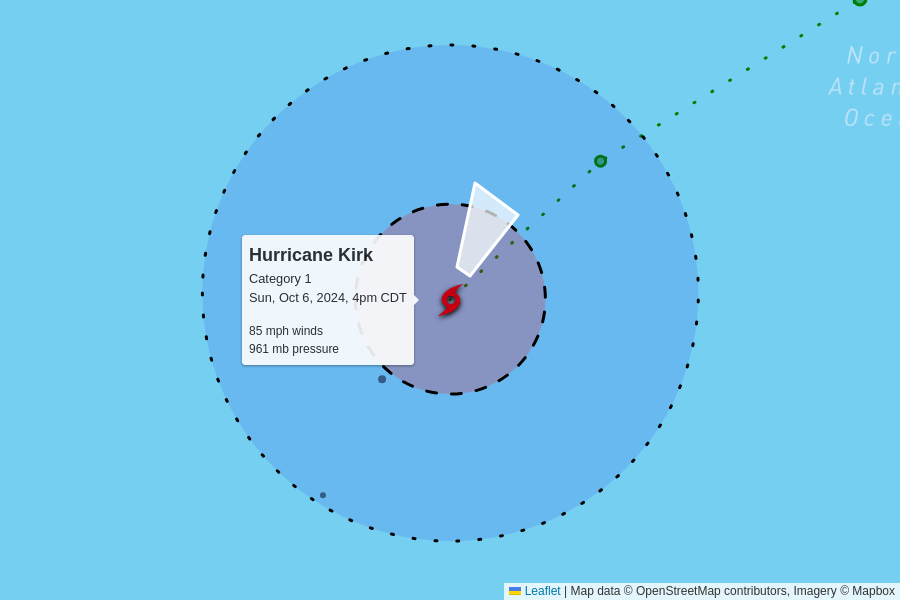
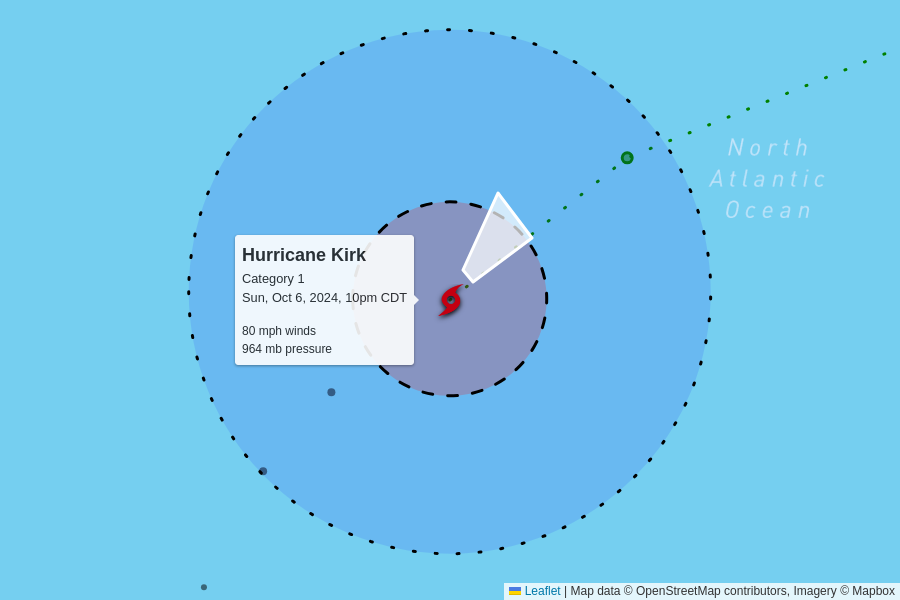
automatic update

diff --git a/docs/index.html b/docs/index.html
@@ -103,6 +103,50 @@
       <tr>
         <td colspan="6" class="storm category-1" >
           <h2>
+            Hurricane Kirk - Category 1
+            <p class="updated">last updated <span data-time>2024-10-07T03:00:00.000Z</span></p>
+          </h2>
+        </td>
+      </tr>
+      
+      <tr>
+        <th class="spacer"></th>
+        <th>wind speed</th>
+        <th>central pressure</th>
+        <th>movement</th>
+        <th>data (CSV)</th>
+        <th>National Hurricane Center</th>
+      </tr>
+      <tr>
+        <td class="spacer"></td>
+        <td>80 mph<br>-5 mph since last update</td>
+        <td>964 mb<br>+3 mb since last update</td>
+        <td>
+          25 mph to the northeast
+          <br/>
+          <span style="display: inline-block; font-size: 1.5em; transform: rotate(45deg);">↑</span>
+        </td>
+        <td><a href="https://raw.githubusercontent.com/mgwalker/atlantic-hurricanes/main/data/csv/AL122024.csv">AL122024.csv</a></td>
+        <td><a href="https://www.nhc.noaa.gov/archive/2024/KIRK.shtml?">NHC advisories</a></td>
+      </tr>
+      <tr id="storm_AL122024" >
+        <td class="spacer">
+        <td colspan="5">
+          <figure>
+            <img src="AL122024.png">
+            <figcaption>
+              Map data &copy; <a href="https://www.openstreetmap.org/copyright">OpenStreetMap</a> contributors,
+              Imagery &copy; <a href="https://www.mapbox.com/">Mapbox</a> |
+              <a href="https://www.mapbox.com/map-feedback/" target="_blank">Improve this map</a>
+            </figcaption>
+          </figure>
+        </td>
+      </tr>
+      
+
+      <tr>
+        <td colspan="6" class="storm category-1" >
+          <h2>
             Hurricane Milton - Category 1
             <p class="updated">last updated <span data-time>2024-10-07T00:00:00.000Z</span></p>
           </h2>
@@ -134,50 +178,6 @@
         <td colspan="5">
           <figure>
             <img src="AL142024.png">
-            <figcaption>
-              Map data &copy; <a href="https://www.openstreetmap.org/copyright">OpenStreetMap</a> contributors,
-              Imagery &copy; <a href="https://www.mapbox.com/">Mapbox</a> |
-              <a href="https://www.mapbox.com/map-feedback/" target="_blank">Improve this map</a>
-            </figcaption>
-          </figure>
-        </td>
-      </tr>
-      
-
-      <tr>
-        <td colspan="6" class="storm category-1" >
-          <h2>
-            Hurricane Kirk - Category 1
-            <p class="updated">last updated <span data-time>2024-10-06T21:00:00.000Z</span></p>
-          </h2>
-        </td>
-      </tr>
-      
-      <tr>
-        <th class="spacer"></th>
-        <th>wind speed</th>
-        <th>central pressure</th>
-        <th>movement</th>
-        <th>data (CSV)</th>
-        <th>National Hurricane Center</th>
-      </tr>
-      <tr>
-        <td class="spacer"></td>
-        <td>85 mph<br>-15 mph since last update</td>
-        <td>961 mb<br>+1 mb since last update</td>
-        <td>
-          23 mph to the north-northeast
-          <br/>
-          <span style="display: inline-block; font-size: 1.5em; transform: rotate(30deg);">↑</span>
-        </td>
-        <td><a href="https://raw.githubusercontent.com/mgwalker/atlantic-hurricanes/main/data/csv/AL122024.csv">AL122024.csv</a></td>
-        <td><a href="https://www.nhc.noaa.gov/archive/2024/KIRK.shtml?">NHC advisories</a></td>
-      </tr>
-      <tr id="storm_AL122024" >
-        <td class="spacer">
-        <td colspan="5">
-          <figure>
-            <img src="AL122024.png">
             <figcaption>
               Map data &copy; <a href="https://www.openstreetmap.org/copyright">OpenStreetMap</a> contributors,
               Imagery &copy; <a href="https://www.mapbox.com/">Mapbox</a> |
